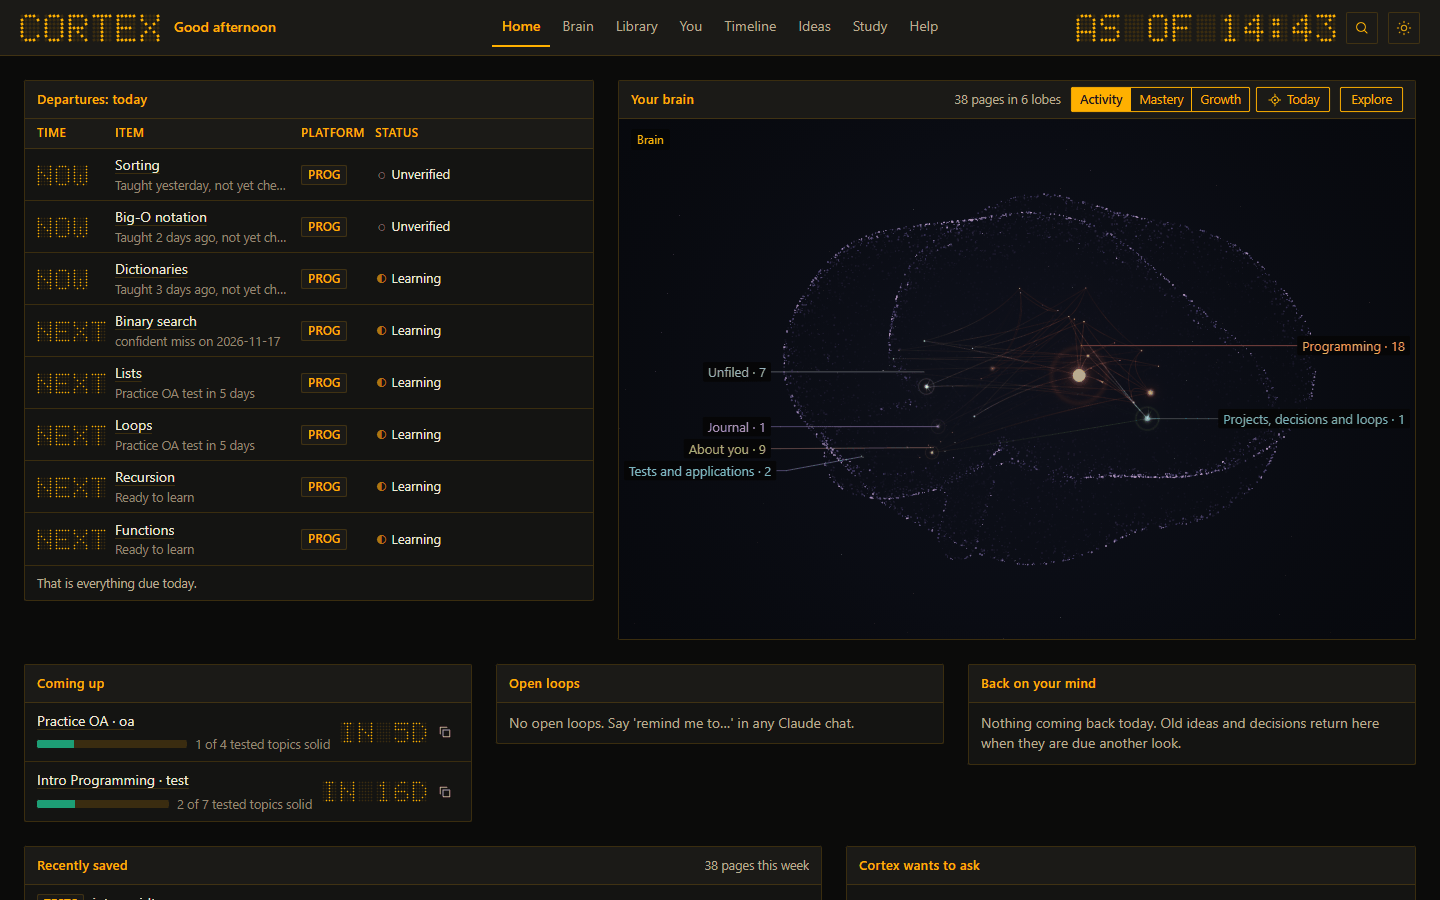
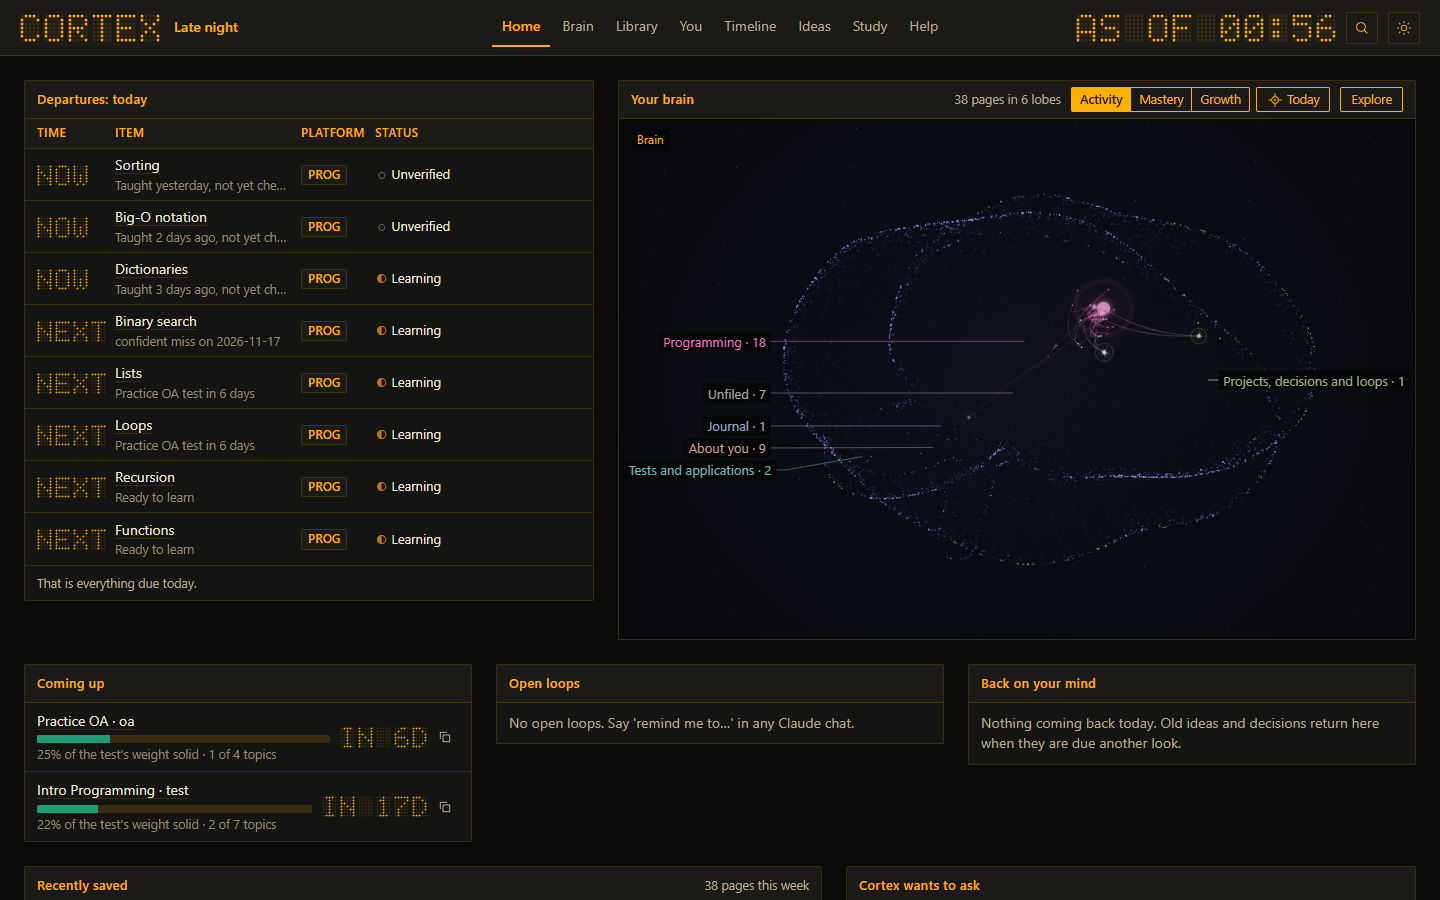
Dashboard: a long readiness label wraps under the bar instead of squeezing it (Home's Coming up)

diff --git a/src/cortex/assets/dashboard.css b/src/cortex/assets/dashboard.css
@@ -182,8 +182,8 @@ section:focus { outline: none; }
 .home-row.two { grid-template-columns: minmax(0, 7fr) minmax(0, 5fr); }
 .brain-slot { position: relative; background: var(--stage); overflow: hidden; }
 .brain-host { position: absolute; inset: 0; }
-.ready { display: flex; align-items: center; gap: 8px; margin-top: 4px; }
-.bar { flex: 1; height: 8px; background: var(--unlit); border-radius: 2px; overflow: hidden; min-width: 40px; }
+.ready { display: flex; flex-wrap: wrap; align-items: center; gap: 2px 8px; margin-top: 4px; }  /* a long label wraps under the bar */
+.bar { flex: 1; height: 8px; background: var(--unlit); border-radius: 2px; overflow: hidden; min-width: 120px; }
 .bar > span { display: block; height: 100%; background: var(--solid); }
 
 /* brain section */
